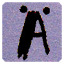
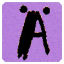
Boundings of moving tiles are ok now

diff --git a/src/app.js b/src/app.js
@@ -164,7 +164,7 @@ var MuprisGameLayer = cc.Layer.extend({
 	    this.drawNode = cc.DrawNode.create();
         this.addChild(this.drawNode,1);
         this.drawNode.clear();
-/*        for( var i=0 ; i<=BOXES_PER_ROW ; i++ ) {
+ /*       for( var i=0 ; i<=BOXES_PER_ROW ; i++ ) {
             this.drawNode.drawSegment(cc.p(BOXES_X_OFFSET+i*BS,BOXES_Y_OFFSET), 
             						  cc.p(BOXES_X_OFFSET+i*BS,BOXES_Y_OFFSET+BOXES_PER_COL*BS),
             						  1,
@@ -502,16 +502,16 @@ var MuprisGameLayer = cc.Layer.extend({
     	 * check if a collision happened
     	 */
     	var checkForBottom = function(t, lp) {
-    		var b = t.rotatedBoxes;
+    		var b = t.rotatedBoxes; // usually four boxes of a tile
     		
+    		// check all boxes
     		for( var i=0 ; i<b.length ; i++ ) {
-    			var bx = lp.x + b[i].x,
-    				by = lp.y + b[i].y,
-    				brc = getRowCol(b[i], lp);
-    			    	
-    			// check for bottom or fixed boxes
-    			if( by - BS/2 <= BOXES_Y_OFFSET || 
-    				(brc.row < BOXES_PER_COL && self.boxes[brc.row][brc.col]) ) {
+    			var bx = lp.x + b[i].x,		// x pos of box
+    				by = lp.y + b[i].y,		// y pos of box
+    				brc1 = getRowCol(b[i], { x: lp.x + BS/2 - 1, y: lp.y}),
+					brc2 = getRowCol(b[i], { x: lp.x - BS/2 + 1, y: lp.y});
+    			if( by - BS/2 <= BOXES_Y_OFFSET ||    // bottom reached? 
+    				(brc1.row < BOXES_PER_COL && (self.boxes[brc1.row][brc1.col] || self.boxes[brc2.row][brc2.col])) ) { // is there a fixed box under the moving box?
 
     				// align y to box border
     				lp.y = Math.round((lp.y - BOXES_Y_OFFSET)/(BS/2))*(BS/2) + BOXES_Y_OFFSET;
@@ -528,30 +528,37 @@ var MuprisGameLayer = cc.Layer.extend({
     	};
     	
     	var moveHorizontalyAndCheckForBarrier = function(t, lp, tp) {
-    		var b = t.rotatedBoxes,
-    			op = t.offsetToStartPoint,
+    		var b = t.rotatedBoxes,					// usually four tile boxes
+    			op = t.offsetToStartPoint, 			// distance of user finger to sprite center when grabbing a tile 
     			offset = 32-(Math.abs(t.rotatedBoxes[0].x) % BS),
-    			dir = Math.sign(tp.x-lp.x+op.x);
+    			dir = Math.sign(tp.x-lp.x+op.x);  	// direction, left = -1
     		
 			// limit horizontal movement to little less than one box per cycle
 			lp.x = (Math.abs(tp.x - lp.x + op.x) < BS)? tp.x + op.x : lp.x + (BS-1) * dir;
 			
+			// move tile to center of user finger in snap speed
 			if( Math.abs(op.x) > 0 ) op.x = Math.sign(op.x) * Math.max(Math.abs(op.x) - SNAP_SPEED, 0);
 
 			var newX = null;
+			// check all (four) boxes
     		for( var i=0 ; i<t.boxes.length ; i++) {
     			
-        		var brc = getRowCol(b[i], { x: lp.x-BS/2, y: lp.y} );
+        		var brc1 = getRowCol(b[i], { x: lp.x-BS/2, y: lp.y+BS-1} );
+        		var brc2 = getRowCol(b[i], { x: lp.x-BS/2, y: lp.y+1} );
     			// check for left and right border
     			if( dir === -1 ) {
+    				// left border?
     				if (lp.x + t.rotatedBoxes[i].x - BS/2 - BOXES_X_OFFSET < 0 ) {
     					var x = -t.rotatedBoxes[i].x + BS/2 + BOXES_X_OFFSET;
-    					newX = (newX === null)? x : Math.max(newX , -t.rotatedBoxes[i].x + BS/2 + BOXES_X_OFFSET);
+    					// take the tile that is the most left
+    					newX = (newX === null)? x : Math.max(newX , x);
     				}
     				
-    				if( self.boxes[brc.row][brc.col] ) {
-    					var x = (brc.col+1) * BS - t.rotatedBoxes[i].x + BS/2 + BOXES_X_OFFSET;
-    					newX = (newX === null)? x : Math.max(newX , brc.col * BS - t.rotatedBoxes[i].x - BS/2 + BOXES_X_OFFSET);
+    				// box on the left side?
+    				if( self.boxes[brc1.row][brc1.col] || self.boxes[brc2.row][brc2.col] ) {
+        				if( i==0 ) cc.log("MUPRIS, moveHorizontalyAndCheckForBarrier: Correcting box!");
+    					var x = (brc1.col+1) * BS - t.rotatedBoxes[i].x + BS/2 + BOXES_X_OFFSET;
+    					newX = (newX === null)? x : Math.max(newX , brc1.col * BS - t.rotatedBoxes[i].x - BS/2 + BOXES_X_OFFSET);
     				}
     			} else {
     				if (lp.x + t.rotatedBoxes[i].x + BS/2 - BOXES_X_OFFSET >= BOXES_PER_ROW * BS ) {
@@ -559,11 +566,10 @@ var MuprisGameLayer = cc.Layer.extend({
     					newX = (newX === null)? x : Math.min(newX , BOXES_PER_ROW * BS - t.rotatedBoxes[i].x - BS/2 + BOXES_X_OFFSET);
     				}
 
-    				if( self.boxes[brc.row][brc.col+1] ) {
-    					var x = brc.col * BS - t.rotatedBoxes[i].x + BS/2 + BOXES_X_OFFSET;
-    					newX = (newX === null)? x : Math.min(newX , brc.col * BS - t.rotatedBoxes[i].x + BS/2 + BOXES_X_OFFSET);
+    				if( self.boxes[brc1.row][brc1.col+1] || self.boxes[brc2.row][brc2.col+1]  ) {
+    					var x = brc1.col * BS - t.rotatedBoxes[i].x + BS/2 + BOXES_X_OFFSET;
+    					newX = (newX === null)? x : Math.min(newX , brc1.col * BS - t.rotatedBoxes[i].x + BS/2 + BOXES_X_OFFSET);
     				}
-
     			}
     		}
     		
